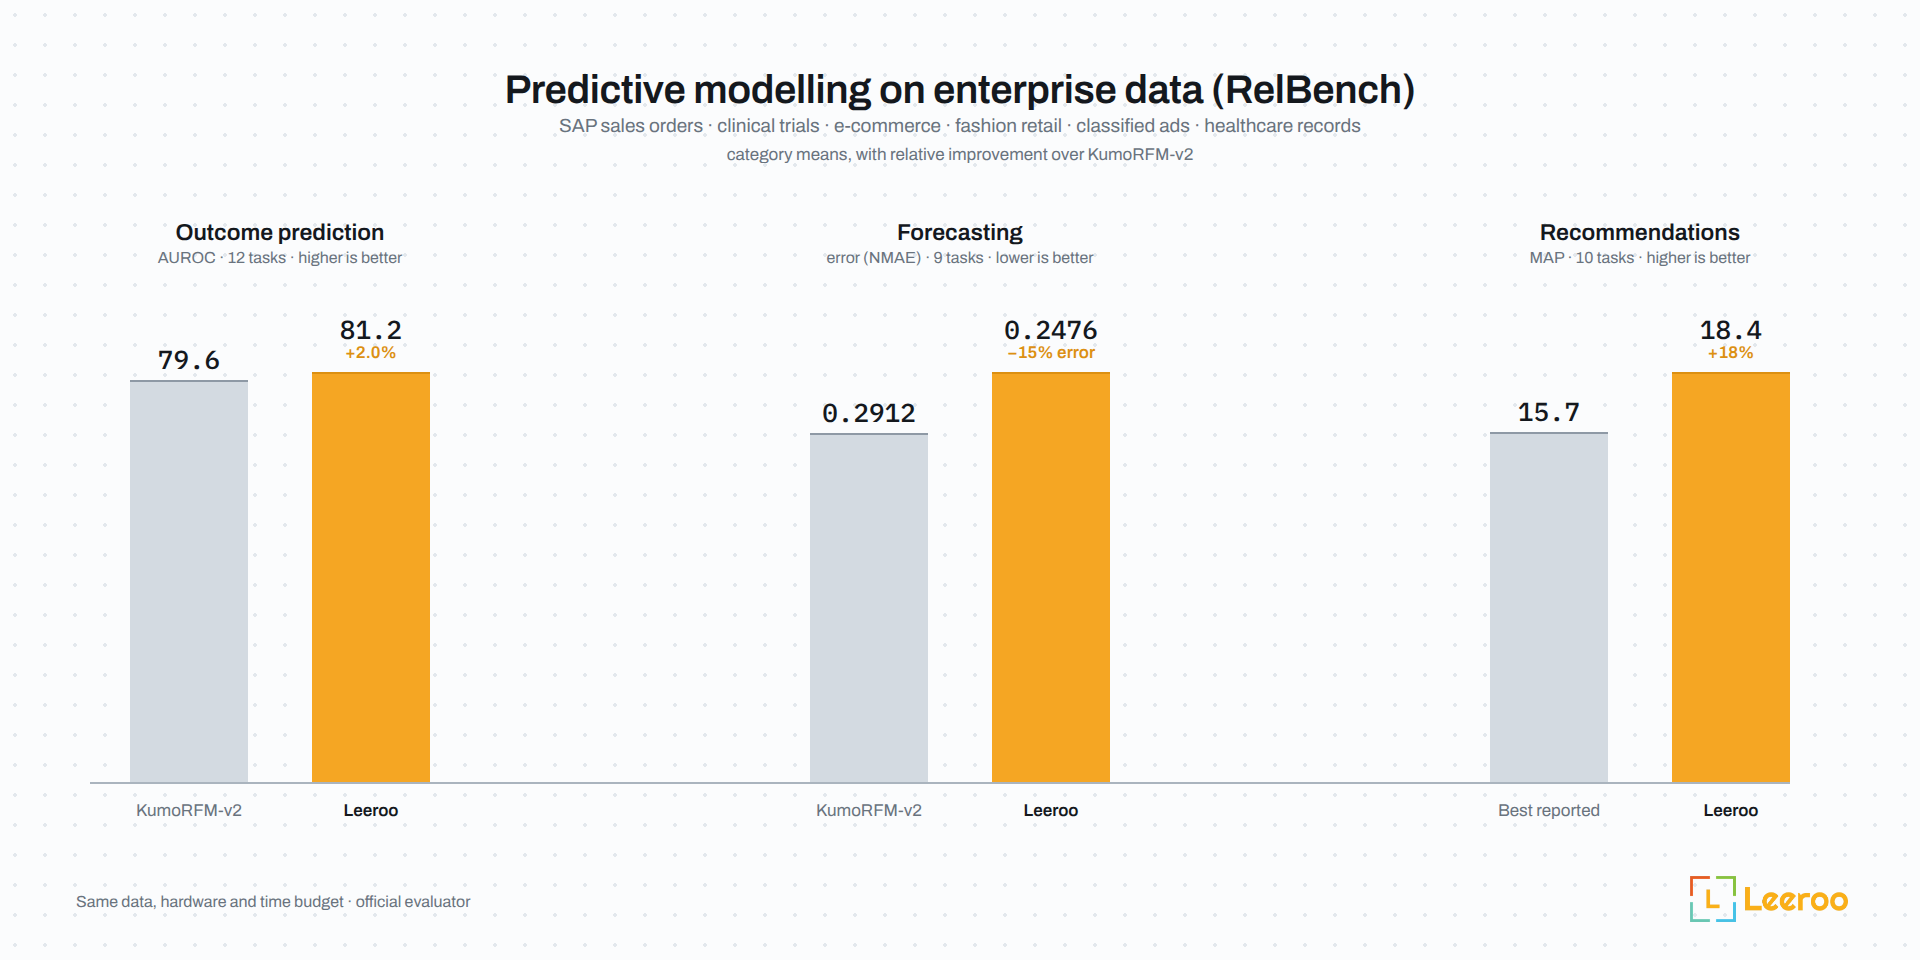
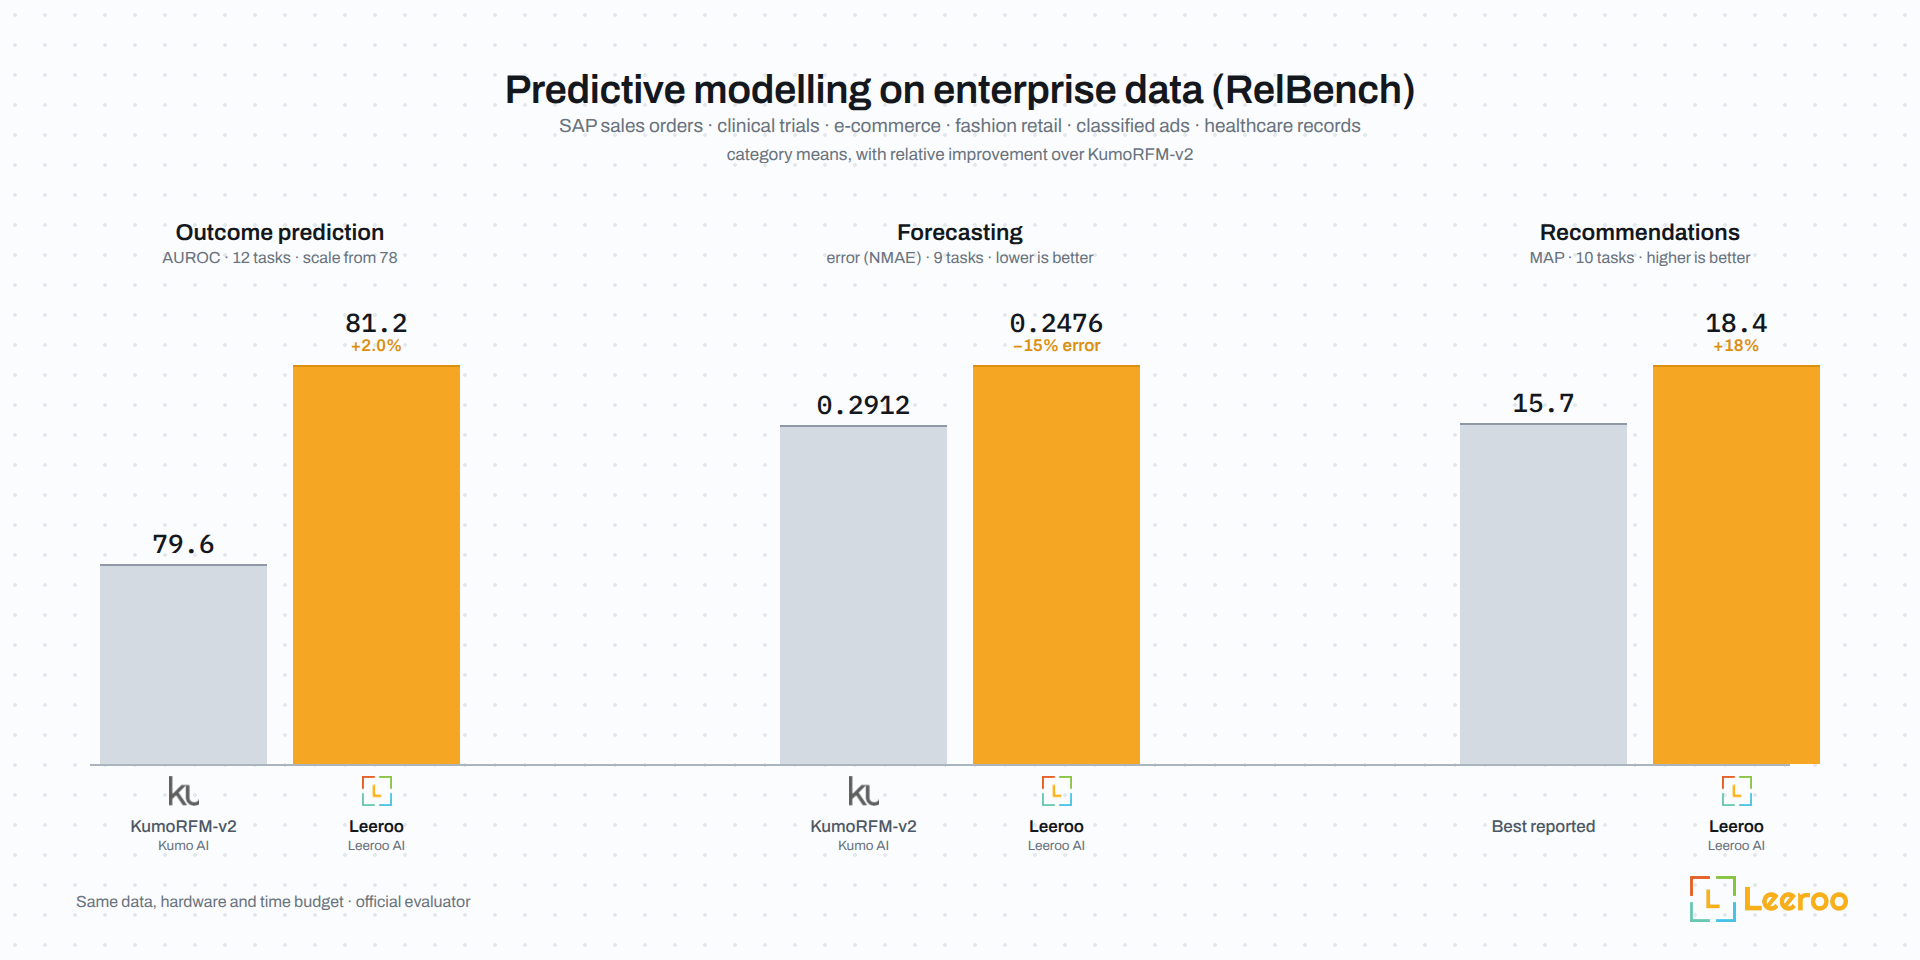
docs(benchmarks): align the in-repo figures, and mark every system
The four benchmark READMEs pointed at figures in three different styles —
two stale PNGs committed beside them and two hosted on api.leeroo.com — so
a reader landing in benchmarks/ saw none of the work done on the root
README. They now all reference the aligned figures in docs/images, which
also removes the last repo-relative image path and two duplicate binaries.

The Claude Code baseline is rebuilt in the same frame. It has three bars per
group rather than two, so the RelBench renderer now sizes bars from the
group width and the bar count instead of a hard-coded 118px, and takes its
spec as a prop — one renderer, two figures.

Every system now carries its organisation's mark and name, as MLE does:
Kumo AI for KumoRFM-v2, Sakana AI for ALE Agent (github.com/SakanaAI/
ALE-Bench), Anthropic for Claude Code. "Best reported" deliberately has
none — it is not an organisation, it is whatever the best published number
happens to be for that task, and inventing a mark for it would be a lie.

Two marks needed work beyond keying out a plate. Kumo's avatar is a brand
tile — pink plate, white box, pink glyph — so the "ku" is recovered by
cropping to the white box and keying the white; keying the pink instead
leaves a white box that is invisible on this ground. Anthropic's is a light
glyph on a dark plate, so it is keyed AND inverted, or it would disappear.

Fixes a real encoding bug: a baseline's delta rendered in our orange, so
[…]

diff --git a/benchmarks/relbench/claude_code_baseline/README.md b/benchmarks/relbench/claude_code_baseline/README.md
@@ -6,7 +6,7 @@ one short generic prompt ([`PROMPT.md`](PROMPT.md)), the same hardware, and the 
 budget per task. Predictions are scored one way by the official RelBench evaluator
 ([`score_baseline.py`](score_baseline.py)); the agent never sees test labels.
 
-![Kapso vs Claude Code](kapso_vs_claude_code.png)
+![Kapso vs Claude Code](../../../docs/images/relbench-vs-claude-code.png)
 
 Six headline tasks, two per family. Kapso wins every settled cell, and in recommendations the
 raw agent stays below the best reported bar while Kapso clears it.

diff --git a/benchmarks/relbench/README.md b/benchmarks/relbench/README.md
@@ -22,7 +22,7 @@ beat in outcome prediction and forecasting. Recommendation tasks are the gap in 
 (the model does not support them), so there Kapso is measured against the best reported
 result per task. Kapso beats both bars:
 
-![Kapso vs KumoRFM-v2](assets/kapso_vs_best_published.png)
+![Kapso vs KumoRFM-v2](../../docs/images/relbench.png)
 
 All scores come from the official RelBench evaluator. The same solutions also beat a frontier
 coding agent (Claude Code, Fable-5) under an identical budget: see

diff --git a/benchmarks/mle/README.md b/benchmarks/mle/README.md
@@ -4,7 +4,7 @@ This module provides integration with [MLE-Bench](https://github.com/openai/mle-
 
 Kapso achieved **#1 among open-source systems** on this benchmark. These results were submitted as an [official submission to MLE-Bench](https://github.com/openai/mle-bench/pull/107).
 
-![MLE-Bench Results](https://api.leeroo.com/storage/v1/object/public/opensource/mle_benchmark.png)
+![MLE-Bench Results](../../docs/images/mle-bench.png)
 
 ## Prerequisites
 

diff --git a/benchmarks/ale/README.md b/benchmarks/ale/README.md
@@ -4,7 +4,7 @@ This module provides integration with [ALE-Bench](https://github.com/SakanaAI/AL
 
 Kapso achieved **#1 on ALE-Bench**.
 
-![ALE-Bench Results](https://api.leeroo.com/storage/v1/object/public/opensource/ale_benchmark.png)
+![ALE-Bench Results](../../docs/images/ale-bench.png)
 
 ## Prerequisites
 
